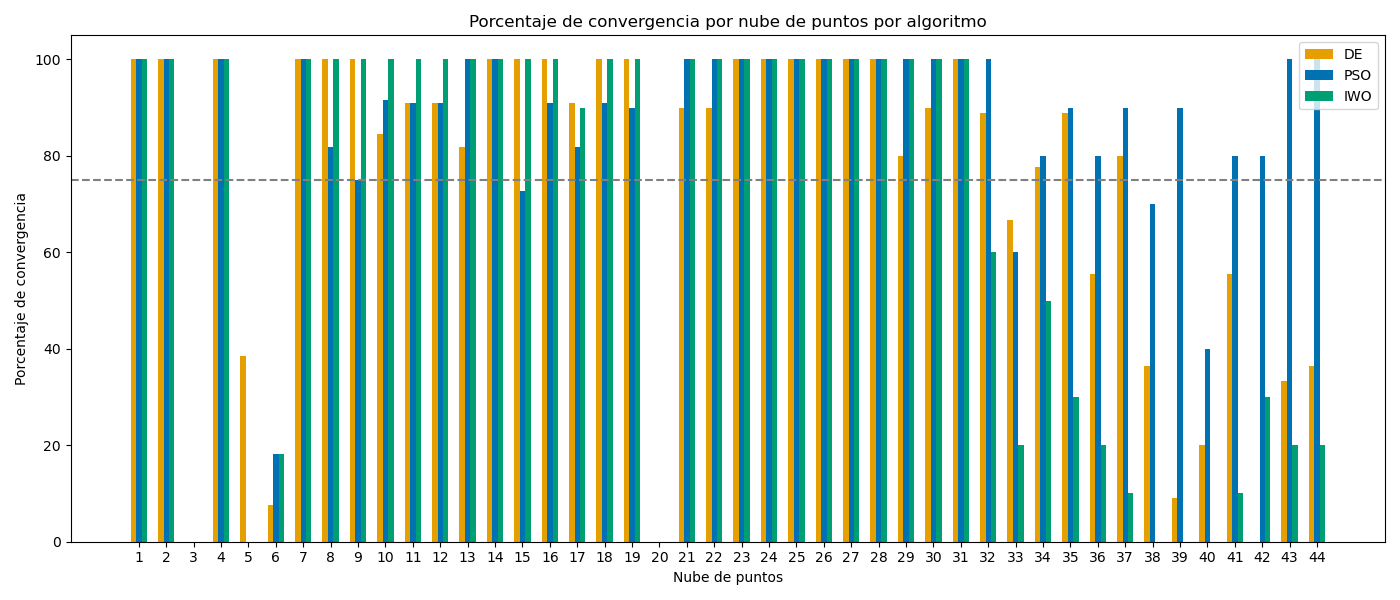
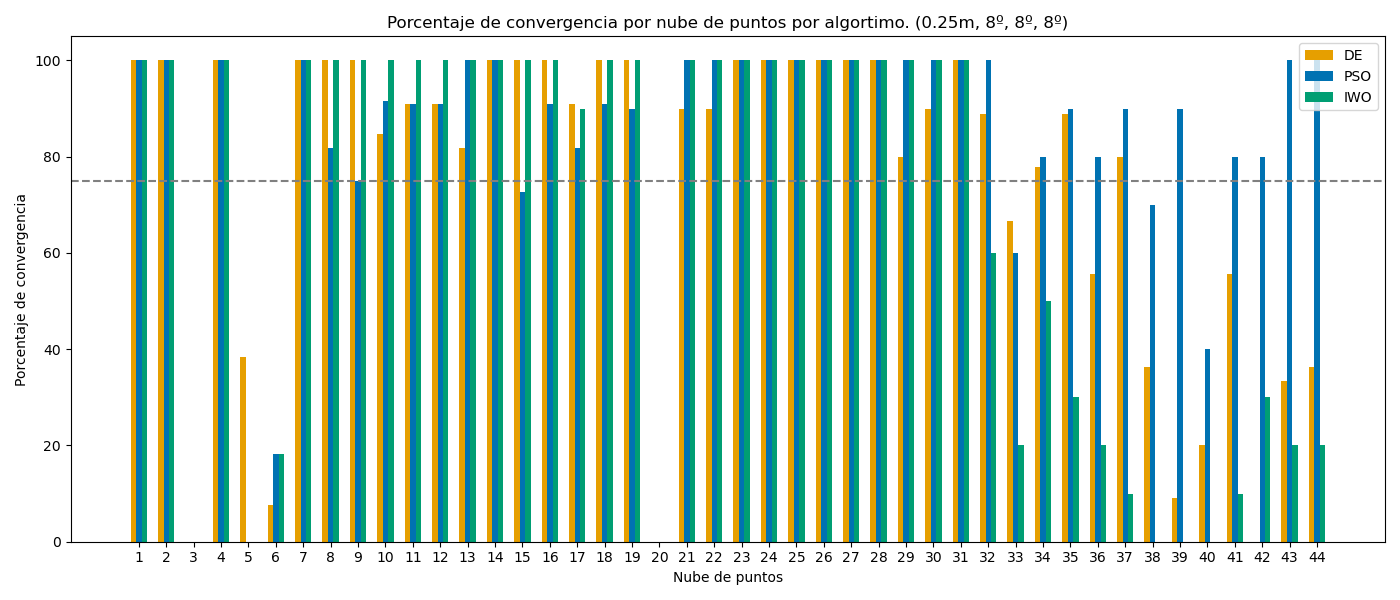
Update tools and saved poserror

diff --git a/evloc/evloc/save_data.py b/evloc/evloc/save_data.py
@@ -19,7 +19,8 @@ def save_error_data(id_cloud, algorithm_type, user_NPini, user_iter_max, D, F, C
         with open(filepath, mode='w', newline='') as archivo_csv:
             escritor_csv = csv.writer(archivo_csv)
             escritor_csv.writerow(['id_cloud', 'algorithm', 'NPini', 'iter_max', 'D', 'F', 'CR', 'w', 'wdamp',
-                                    'c1', 'c2', 'Smin', 'Smax', 'exponent', 'sigma_initial', 'sigma_final', 'time', 'it', 'stop_condition', 'poserror', 'orierror_1', 'orierror_2', 'orierror_2'])
+                                    'c1', 'c2', 'Smin', 'Smax', 'exponent', 'sigma_initial', 'sigma_final', 'time', 'it', 'stop_condition',
+                                    'poserror_1', 'poserror_2', 'poserror_3', 'orierror_1', 'orierror_2', 'orierror_2'])
 
 
     # Escribir los datos en el archivo CSV
@@ -27,13 +28,13 @@ def save_error_data(id_cloud, algorithm_type, user_NPini, user_iter_max, D, F, C
         escritor_csv = csv.writer(archivo_csv)
         if algorithm_type == 1:
             escritor_csv.writerow([id_cloud] + [algorithm_type] + [user_NPini] + [user_iter_max] + [D] + [F] + [CR] + [None] + [None] + [None] + [None]
-                                  + [None] + [None] + [None] + [None] + [None]  + [time] + [it] + [stop_condition] + [poserror] + orierror)
+                                  + [None] + [None] + [None] + [None] + [None]  + [time] + [it] + [stop_condition] + poserror + orierror)
         if algorithm_type == 2:
             escritor_csv.writerow([id_cloud] + [algorithm_type] + [user_NPini] + [user_iter_max] + [D] + [None] + [None] + [w] + [wdamp] + [c1] + [c2]
-                                  + [None] + [None] + [None] + [None] + [None] + [time] + [it] + [stop_condition] + [poserror] + orierror)
+                                  + [None] + [None] + [None] + [None] + [None] + [time] + [it] + [stop_condition] + poserror + orierror)
         if algorithm_type == 3:
             escritor_csv.writerow([id_cloud] + [algorithm_type] + [user_NPini] + [user_iter_max] + [D] + [None] + [None] + [None] + [None] + [None] + [None] 
-                                  + [Smin] + [Smax] + [exponent] + [sigma_initial] + [sigma_final] + [time] + [it] + [stop_condition] + [poserror] + orierror)
+                                  + [Smin] + [Smax] + [exponent] + [sigma_initial] + [sigma_final] + [time] + [it] + [stop_condition] + poserror + orierror)
 
 
     print("\n"+Color.BOLD + "SUMMARY:" + Color.END)

diff --git a/evloc/evloc/gl_6dof.py b/evloc/evloc/gl_6dof.py
@@ -84,14 +84,18 @@ def gl_6dof(map_global, scancloud, groundtruth, algorithm, version_fitness, err_
         f'[{round(estimate[0], 4)}, {round(estimate[1], 4)}, {round(estimate[2], 4)}, ' +
         f'{round(estimate[3], 4)}, {round(estimate[4], 4)}, {round(estimate[5], 4)}]')
 
-    poserror = np.sqrt((groundtruth[0] - estimate[0]) ** 2 + (groundtruth[1] - estimate[1]) ** 2 + (groundtruth[2] - estimate[2]) ** 2)
+    poserror = [groundtruth[0] - solution.pose_estimate[0],
+                groundtruth[1] - solution.pose_estimate[1],
+                groundtruth[2] - solution.pose_estimate[2]
+    ]
+    
     orierror = [
         abs((groundtruth[3] - estimate[3]) * 180 / pi),
         abs((groundtruth[4] - estimate[4]) * 180 / pi),
         abs((groundtruth[5] - estimate[5]) * 180 / pi)
     ]
 
-    print(Color.PURPLE + f'\nEl error de posicion es: {round(poserror,4)} m y el de orientacion: [{round(orierror[0],4)}, {round(orierror[1],4)}, {round(orierror[2],4)}] grados' + Color.END)
+    print(Color.PURPLE + f'\nEl error de posicion es: [{round(poserror[0],4)}, {round(poserror[1],4)}, {round(poserror[2],4)}] m, y el de orientacion: [{round(orierror[0],4)}, {round(orierror[1],4)}, {round(orierror[2],4)}] grados' + Color.END)
     print(Color.GREEN + f'Tiempo transcurrido: {round(final_time-initial_time, 2)} segundos' + Color.END)
     solution = Solution(it, (final_time-initial_time), estimate, poserror, orierror, map_global, real_scan.points, stop_condition)
 

diff --git a/evloc/evloc/generate_point_cloud.py b/evloc/evloc/generate_point_cloud.py
@@ -82,7 +82,11 @@ def generate_point_cloud(auto=False,
     #Plot Results
     sol_points = spatial_rotation(real_scan.points, solution.pose_estimate)
     
-    poserror = np.sqrt((groundtruth[0] - solution.pose_estimate[0]) ** 2 + (groundtruth[1] - solution.pose_estimate[1]) ** 2 + (groundtruth[2] - solution.pose_estimate[2]) ** 2)
+    poserror = [groundtruth[0] - solution.pose_estimate[0],
+                groundtruth[1] - solution.pose_estimate[1],
+                groundtruth[2] - solution.pose_estimate[2]
+    ]
+
     orierror = [
         abs((groundtruth[3] - solution.pose_estimate[3]) * 180 / pi),
         abs((groundtruth[4] - solution.pose_estimate[4]) * 180 / pi),

diff --git a/tools/parse_data.py b/tools/parse_data.py
@@ -371,7 +371,7 @@ def main():
 
         title_x = 'Nube de puntos'
 
-        title = 'Porcentaje de convergencia por nube de puntos por algoritmo'
+        title = f'Porcentaje de convergencia por nube de puntos por algortimo. ({MAX_POS_ERROR}m, {MAX_ORI_ERROR_1}º, {MAX_ORI_ERROR_2}º, {MAX_ORI_ERROR_3}º)'
         title_y = 'Porcentaje de convergencia'
         combined_conv_perc = pd.DataFrame({'DE': conv_perc_de, 'PSO': conv_perc_pso, 'IWO': conv_perc_iwo})
         showBarCombined(combined_conv_perc, title, title_x, title_y, custom_y_limit=MIN_CONVERGENCE_PERCENTAGE)

diff --git a/tools/publish_pc.py b/tools/publish_pc.py
@@ -59,7 +59,7 @@ class PCD(Node):
         self.pcd_publisher_local = self.create_publisher(sensor_msgs.PointCloud2, 'evloc_local', 10)
         self.pcd_publisher_global = self.create_publisher(sensor_msgs.PointCloud2, 'evloc_global', 10)
 
-        self.auto_mode = True
+        self.auto_mode = False # CAMBIAR A MANO
 
     def run(self):
         id_cloud = 0
